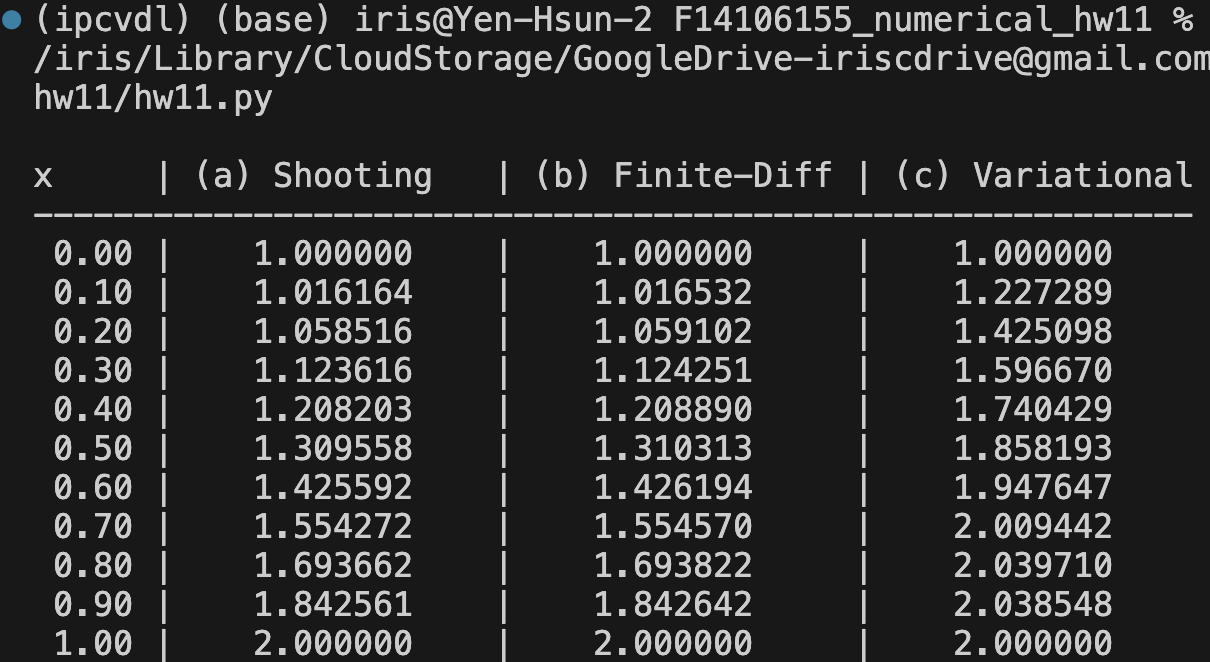
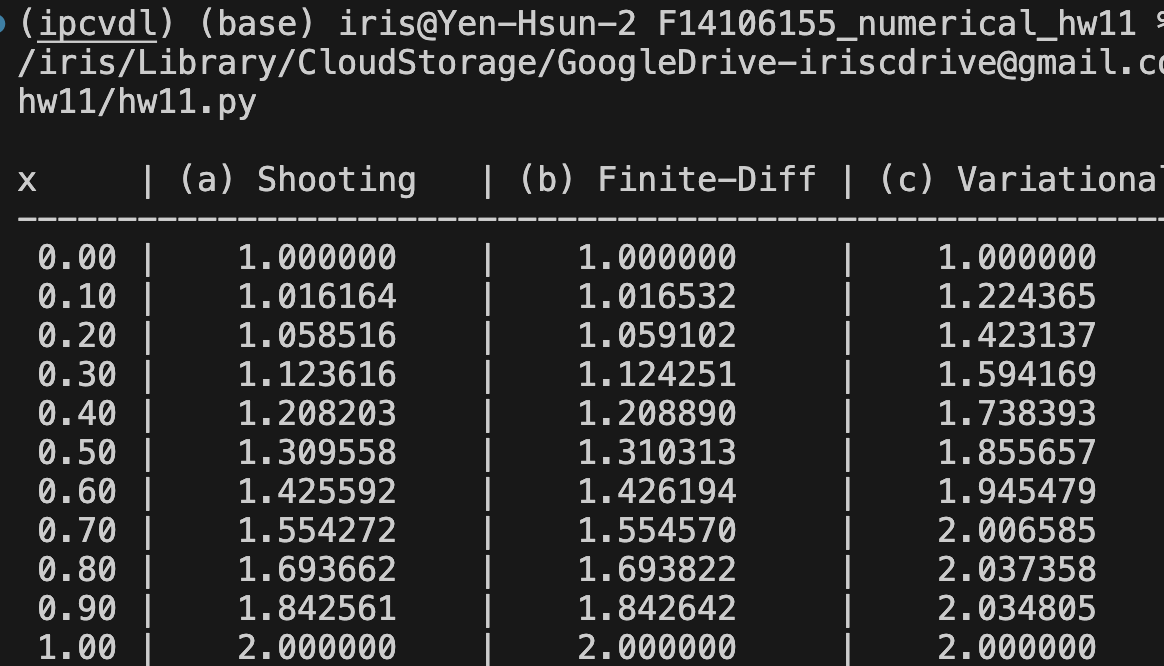
修改c參數

diff --git a/hw11.py b/hw11.py
@@ -61,22 +61,60 @@ def phi(i, x):
 def dphi(i, x):
     return i * np.pi * np.cos(i * np.pi * x)
 
-def variational_approach(M=10):
-    A = np.zeros((M, M))
-    b_vec = np.zeros(M)
+def y1(x):
+    return 1 + x
+def r(x):
+    return (1 - x**2) * np.exp(-x)
 
-    for i in range(1, M + 1):
-        for j in range(1, M + 1):
-            A[i - 1, j - 1] = quad(
-                lambda x: dphi(i, x) * dphi(j, x) + 2 * phi(i, x) * phi(j, x),
-                0, 1
-            )[0]
-        b_vec[i - 1] = quad(
-        lambda x: ((1 - x**2) * np.exp(-x) + 2 * (1 + x)) * phi(i, x),
-        0, 1
-    )[0]
-    c = solve(A, b_vec)
-    return np.array([alpha + (beta - alpha) * x + sum(c[i] * phi(i + 1, x) for i in range(M)) for x in x_vals])
+def q(x):
+    return 2
+
+def F(x):
+    return r(x) + q(x) * y1(x)
+
+def trapezoidal(f, a, b, n):
+    h = (b - a) / n
+    result = 0.5 * (f(a) + f(b))
+    for i in range(1, n):
+        result += f(a + i * h)
+    return result * h
+
+def variational_approach(h=0.1, N=10):
+    n_points = int((b - a) / h) + 1
+    x_vals = [a + i * h for i in range(n_points)]
+    A = np.zeros((N, N))
+    B = np.zeros(N)
+
+    for i in range(N):
+        for j in range(N):
+            def integrand_A(x):
+                phi_i, phi_j = phi(i+1, x), phi(j+1, x)
+                dphi_i, dphi_j = dphi(i+1, x), dphi(j+1, x)
+                return dphi_i * dphi_j + 2 * phi_i * phi_j
+            
+            A[i][j] = trapezoidal(integrand_A, a, b, n_points - 1)
+
+        def integrand_B(x):
+            phi_i = phi(i+1, x)
+            return F(x) * phi_i
+
+        B[i] = trapezoidal(integrand_B, a, b, n_points - 1)
+
+    for i in range(N):
+        for j in range(i + 1, N):
+            factor = A[j][i] / A[i][i]
+            for k in range(i, N):
+                A[j][k] -= factor * A[i][k]
+            B[j] -= factor * B[i]
+
+    c = [0 for _ in range(N)]
+    for i in range(N - 1, -1, -1):
+        c[i] = B[i]
+        for j in range(i + 1, N):
+            c[i] -= A[i][j] * c[j]
+        c[i] /= A[i][i]
+
+    return [y1(x) + sum(c[i] * phi(i + 1, x) for i in range(N)) for x in x_vals]
 
 # 執行各方法
 y_shoot = shooting_method()
